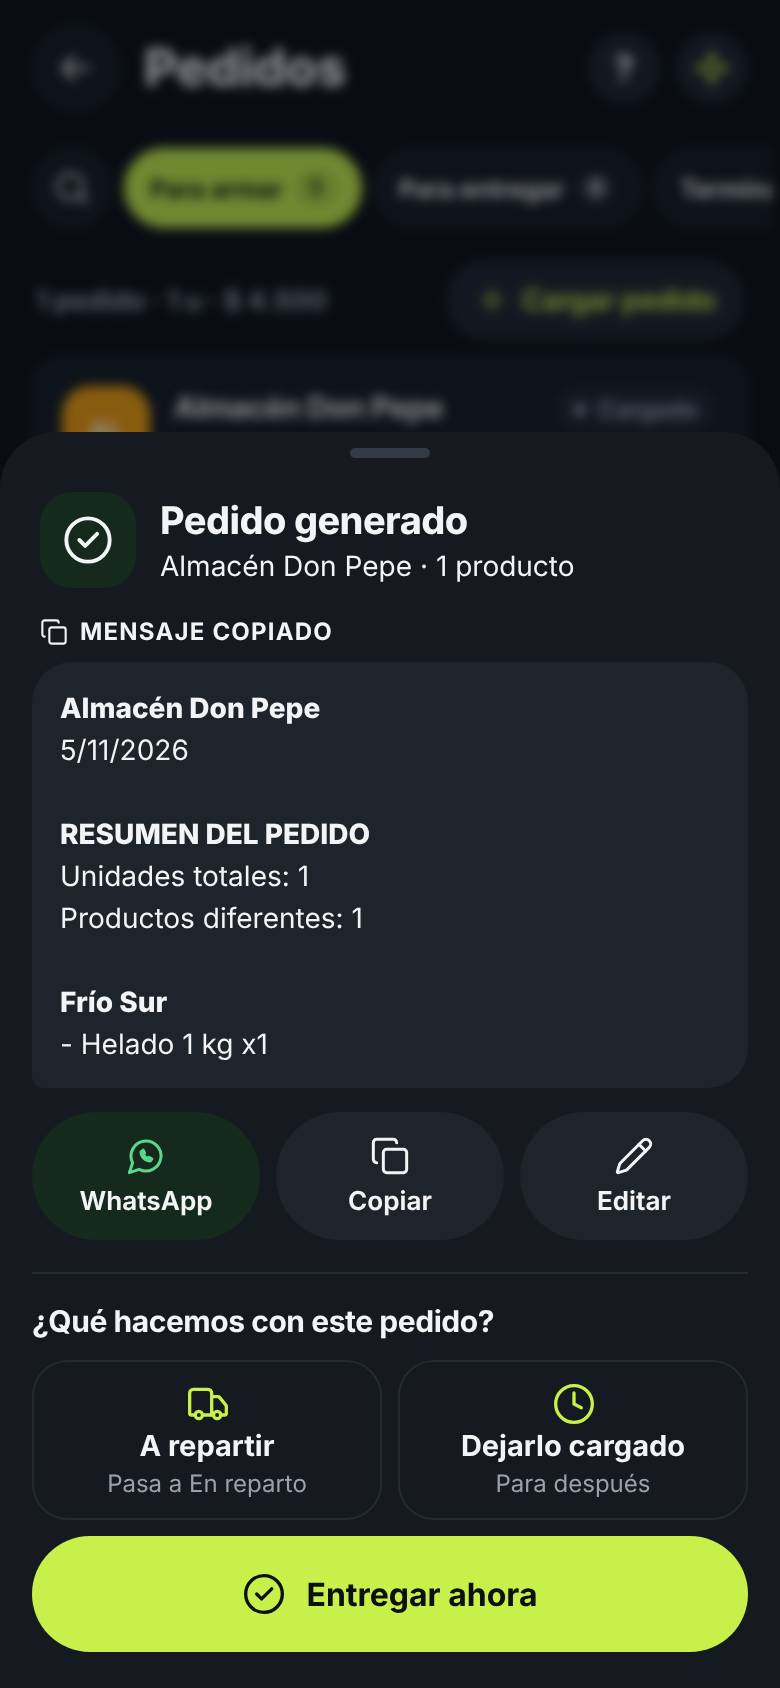
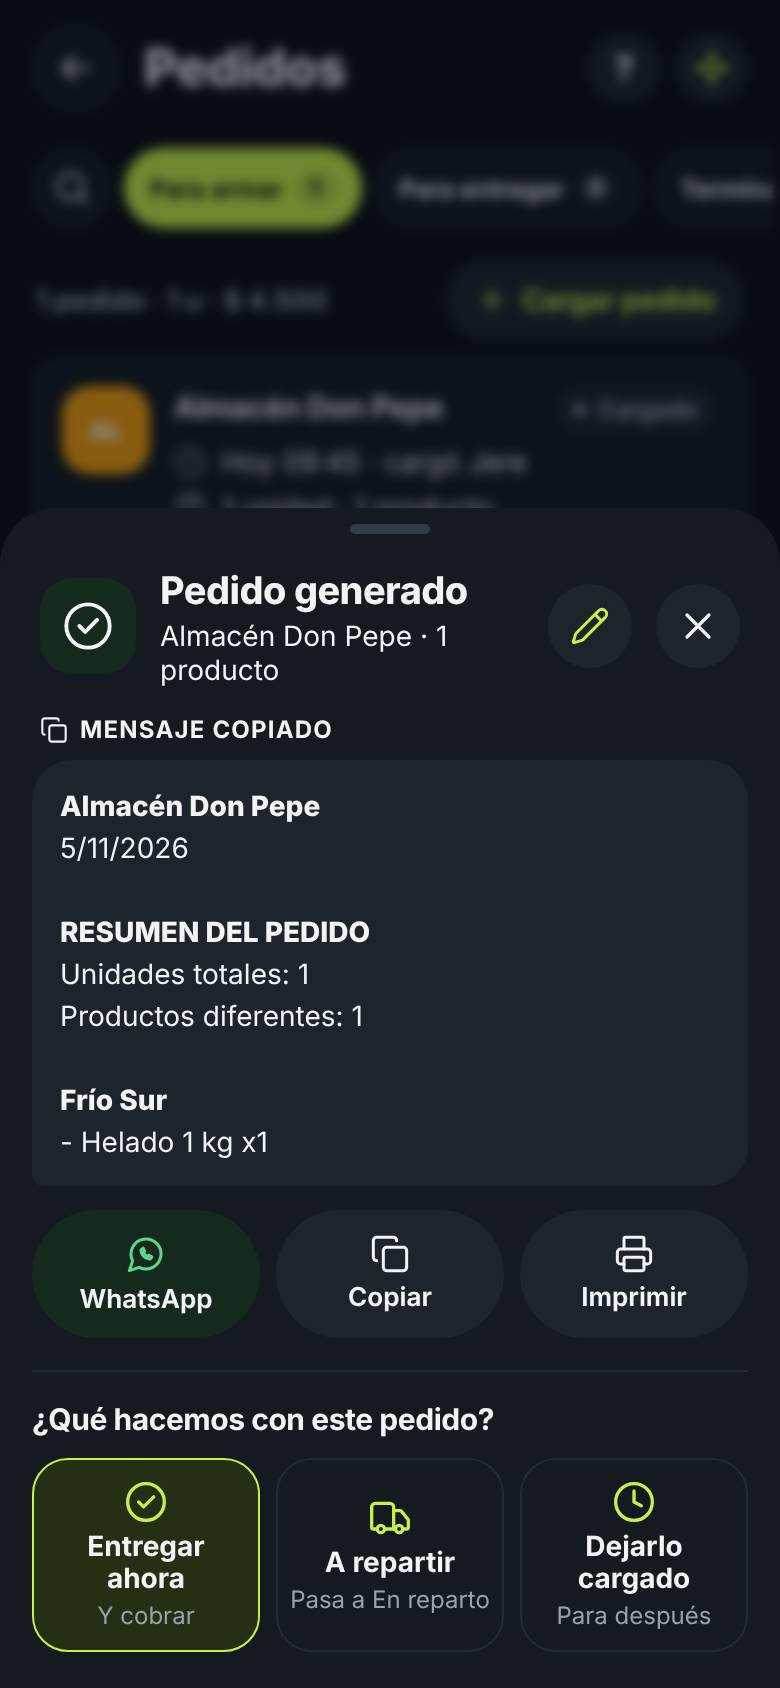
Pedido generado: lápiz y X arriba, Imprimir siempre, tres cuadros iguales
Claude-Session: https://claude.ai/code/session_01VMQLWdg7vojhPbX7uGT7bz

diff --git a/piezas.css b/piezas.css
@@ -1831,21 +1831,21 @@ html body #pantallaComercios .datosComercioGrid .datoHorario{white-space:normal;
 /* ¿Qué hacemos con este pedido? (en "Pedido generado" y en Rutas) */
 .queHacerPedido{margin-top:16px;padding-top:14px;border-top:1px solid var(--borde);}
 .qhpTit{margin:0 0 10px;font-size:15px;font-weight:700;color:var(--texto);}
-.qhpOpciones{display:grid;grid-template-columns:1fr 1fr;gap:8px;}
+.qhpOpciones{display:grid;grid-template-columns:repeat(3,1fr);gap:8px;}
 .qhpOpcion{
-  display:flex;flex-direction:column;align-items:center;justify-content:center;gap:2px;min-height:74px;padding:10px 6px;
+  display:flex;flex-direction:column;align-items:center;justify-content:center;gap:3px;min-height:84px;padding:10px 6px;
   border:1.5px solid var(--borde);border-radius:18px;background:var(--superficie);color:var(--texto);
   font:inherit;text-align:center;cursor:pointer;
 }
-html[data-tema] .qhpOpcion strong{font-size:14.5px;font-weight:700;line-height:1.15;color:inherit;}
-html[data-tema] .qhpOpcion small{font-size:12px;color:var(--texto-sec);}
-.qhpOpcion .pzIco{color:var(--acento);}
-/* Entregar ahora: grande, abajo de todo, a todo el ancho. */
-.qhpOpcion.qhp-entregar{
-  order:3;grid-column:1 / -1;flex-direction:row;gap:10px;min-height:58px;
-  border:0;border-radius:var(--radio-pildora,999px);background:var(--acento);color:var(--acento-txt,#fff);
-}
-html[data-tema] .qhpOpcion.qhp-entregar :is(.pzIco,strong,small){color:var(--acento-txt,#fff) !important;}
-html[data-tema] .qhpOpcion.qhp-entregar strong{font-size:16px;}
-.qhpOpcion.qhp-entregar small{opacity:.8;}
+.qhpOpcion strong{font-size:14px;font-weight:700;line-height:1.15;color:var(--texto);}
+.qhpOpcion small{font-size:12px;color:var(--texto-sec);}
+.qhpOpcion .pzIco{color:var(--acento-oscuro);}
+html[data-tema="oscuro"] .qhpOpcion .pzIco{color:var(--acento);}
+/* Entregar ahora: mismo tamaño que los otros, resaltado con el borde. */
+.qhpOpcion.qhp-entregar{border-color:var(--acento);background:var(--acento-bg);}
 .qhpOpcion:active{transform:scale(.97);}
+#modalPedido .cabezaPedidoGenerado > div{flex:1;min-width:0;}
+html #modalPedido .cabezaPedidoGenerado .botonRedondoFicha{display:grid;place-items:center;flex:0 0 auto;width:42px;height:42px;margin:0;padding:0;border:0;border-radius:50%;background:var(--gris-claro);color:var(--texto);}
+html #modalPedido .cabezaPedidoGenerado .botonEditarGenerado{color:var(--acento-oscuro);}
+html[data-tema="oscuro"] #modalPedido .cabezaPedidoGenerado .botonEditarGenerado{color:var(--acento);}
+html #modalPedido .cabezaPedidoGenerado .botonRedondoFicha.oculto{display:none;}

diff --git a/index.html b/index.html
@@ -386,12 +386,14 @@
         <h2 id="tituloPedidoGenerado">Pedido generado</h2>
         <p><span id="pedidoCliente"></span> · <span id="pedidoCantidad"></span> <span id="pedidoCantidadTexto">productos</span></p>
       </div>
+      <button type="button" id="editarPedidoGenerado" class="botonRedondoFicha botonEditarGenerado" aria-label="Volver a editar" title="Editar el pedido"><i data-ico="lapiz" data-ico-tam="20"></i></button>
+      <button type="button" class="botonRedondoFicha cerrarPedidoGenerado" aria-label="Cerrar"><i data-ico="cerrarX" data-ico-tam="22"></i></button>
     </div>
 
     <p class="etiquetaPedidoGenerado"><i data-ico="copiar" data-ico-tam="14"></i> Mensaje copiado</p>
     <div id="pedidoDetalle" class="detallePedido"></div>
 
-    <!-- Acciones compactas: WhatsApp, copiar, imprimir y volver a editar. -->
+    <!-- Acciones: WhatsApp, copiar e imprimir (siempre). Editar va arriba, con el lápiz. -->
     <div class="modalBotones accionesPedidoGenerado">
       <button id="whatsappPedido" class="btnModalWhatsapp" type="button" aria-label="Enviar por WhatsApp">
         <i data-ico="whatsapp" data-ico-tam="20"></i><span>WhatsApp</span>
@@ -400,11 +402,8 @@
         <i data-ico="copiar" data-ico-tam="20"></i><span>Copiar</span>
       </button>
       <!-- Imprimir ticket (T28b): solo en la nube y con Web Bluetooth. -->
-      <button id="imprimirPedidoGenerado" class="btnModalSecundario botonImprimirGenerado oculto" type="button" aria-label="Imprimir ticket">
-        <span>Imprimir</span>
-      </button>
-      <button id="editarPedidoGenerado" class="btnModalSecundario oculto" type="button" aria-label="Volver a editar">
-        <i data-ico="lapiz" data-ico-tam="20"></i><span>Editar</span>
+      <button id="imprimirPedidoGenerado" class="btnModalSecundario botonImprimirGenerado" type="button" aria-label="Imprimir ticket">
+        <i data-ico="impresora" data-ico-tam="20"></i><span>Imprimir</span>
       </button>
     </div>
   </div>

diff --git a/pedidos.js b/pedidos.js
@@ -1362,16 +1362,14 @@ function mostrarImprimirPedidoGenerado(id) {
     if (!boton) return;
 
     const pedido = id ? pedidoParaLeer(id) : null;
-    const puede = Boolean(pedido && window.impresionVendeFrio?.puedeImprimir?.(pedido));
-    boton.classList.toggle("oculto", !puede);
-    if (puede && window.icono && !boton.querySelector("svg")) {
-        boton.insertAdjacentHTML("afterbegin", window.icono("impresora", 20));
-    }
+    // Imprimir queda siempre a la vista: si no hay impresora, avisa al tocarlo.
     // Volver a editar: corrige el pedido recién guardado (en la nube).
     const editar = document.getElementById("editarPedidoGenerado");
     const puedeEditar = Boolean(pedido && window.nubeVendeFrio?.puedeEditarElPedido?.(pedido));
     editar?.classList.toggle("oculto", !puedeEditar);
 }
+
+modalPedido?.querySelector(".cerrarPedidoGenerado")?.addEventListener("click", () => modalPedido.classList.add("oculto"));
 
 document.getElementById("editarPedidoGenerado")?.addEventListener("click", () => {
     if (!idUltimoPedidoGenerado) return;
@@ -1381,7 +1379,8 @@ document.getElementById("editarPedidoGenerado")?.addEventListener("click", () =>
 
 document.getElementById("imprimirPedidoGenerado")?.addEventListener("click", () => {
     if (!idUltimoPedidoGenerado) return;
-    window.impresionVendeFrio?.elegirCopias?.(idUltimoPedidoGenerado);
+    if (window.impresionVendeFrio?.elegirCopias?.(idUltimoPedidoGenerado)) return;
+    mostrarAviso("No se puede imprimir desde acá", "Para imprimir hace falta la nube y un celular con Bluetooth (Chrome en Android). Prendé el Bluetooth y probá de nuevo.");
 });
 
 // -----------------------------------------------------

diff --git a/seguimiento.js b/seguimiento.js
@@ -5191,7 +5191,7 @@
         const caja = document.createElement("div");
         caja.className = "queHacerPedido";
         const opciones = [
-            { clave: "entregar", icono: "check", texto: "Entregar ahora", sub: "· y cobrar", ve: puedeEntregar(pedido), sinSub: true },
+            { clave: "entregar", icono: "check", texto: "Entregar ahora", sub: "Y cobrar", ve: puedeEntregar(pedido) },
             { clave: "reparto", icono: "camion", texto: "A repartir", sub: "Pasa a En reparto", ve: estadoActualDelPedido(pedido) !== "enReparto" },
             { clave: "dejar", icono: "reloj", texto: "Dejarlo cargado", sub: "Para después", ve: true }
         ].filter(opcion => opcion.ve);

diff --git a/pruebas/queHacerPedido.prueba.js b/pruebas/queHacerPedido.prueba.js
@@ -26,6 +26,8 @@ test("al guardar: entregar ahora o pasarlo a En reparto", async ({ page }, testI
     const queHacer = generado.locator(".queHacerPedido");
     await expect(queHacer).toContainText("¿Qué hacemos con este pedido?");
     await expect(queHacer.locator(".qhpOpcion")).toHaveCount(3);
+    await expect(generado.getByRole("button", { name: "Imprimir ticket" })).toBeVisible();
+    await expect(generado.getByRole("button", { name: "Volver a editar" })).toBeVisible();
     await queHacer.scrollIntoViewIfNeeded();
     await capturar(page, "que-hacer-pedido");
     await queHacer.getByRole("button", { name: /A repartir/ }).click();

diff --git a/sw.js b/sw.js
@@ -1,7 +1,7 @@
 // =====================================================
 // VendeFrío - Service Worker (v164 - Estilo nuevo)
 // =====================================================
-const CACHE_NAME = "vendefrio-v295";
+const CACHE_NAME = "vendefrio-v296";
 const ARCHIVOS = [
   "./",
   "./index.html",
